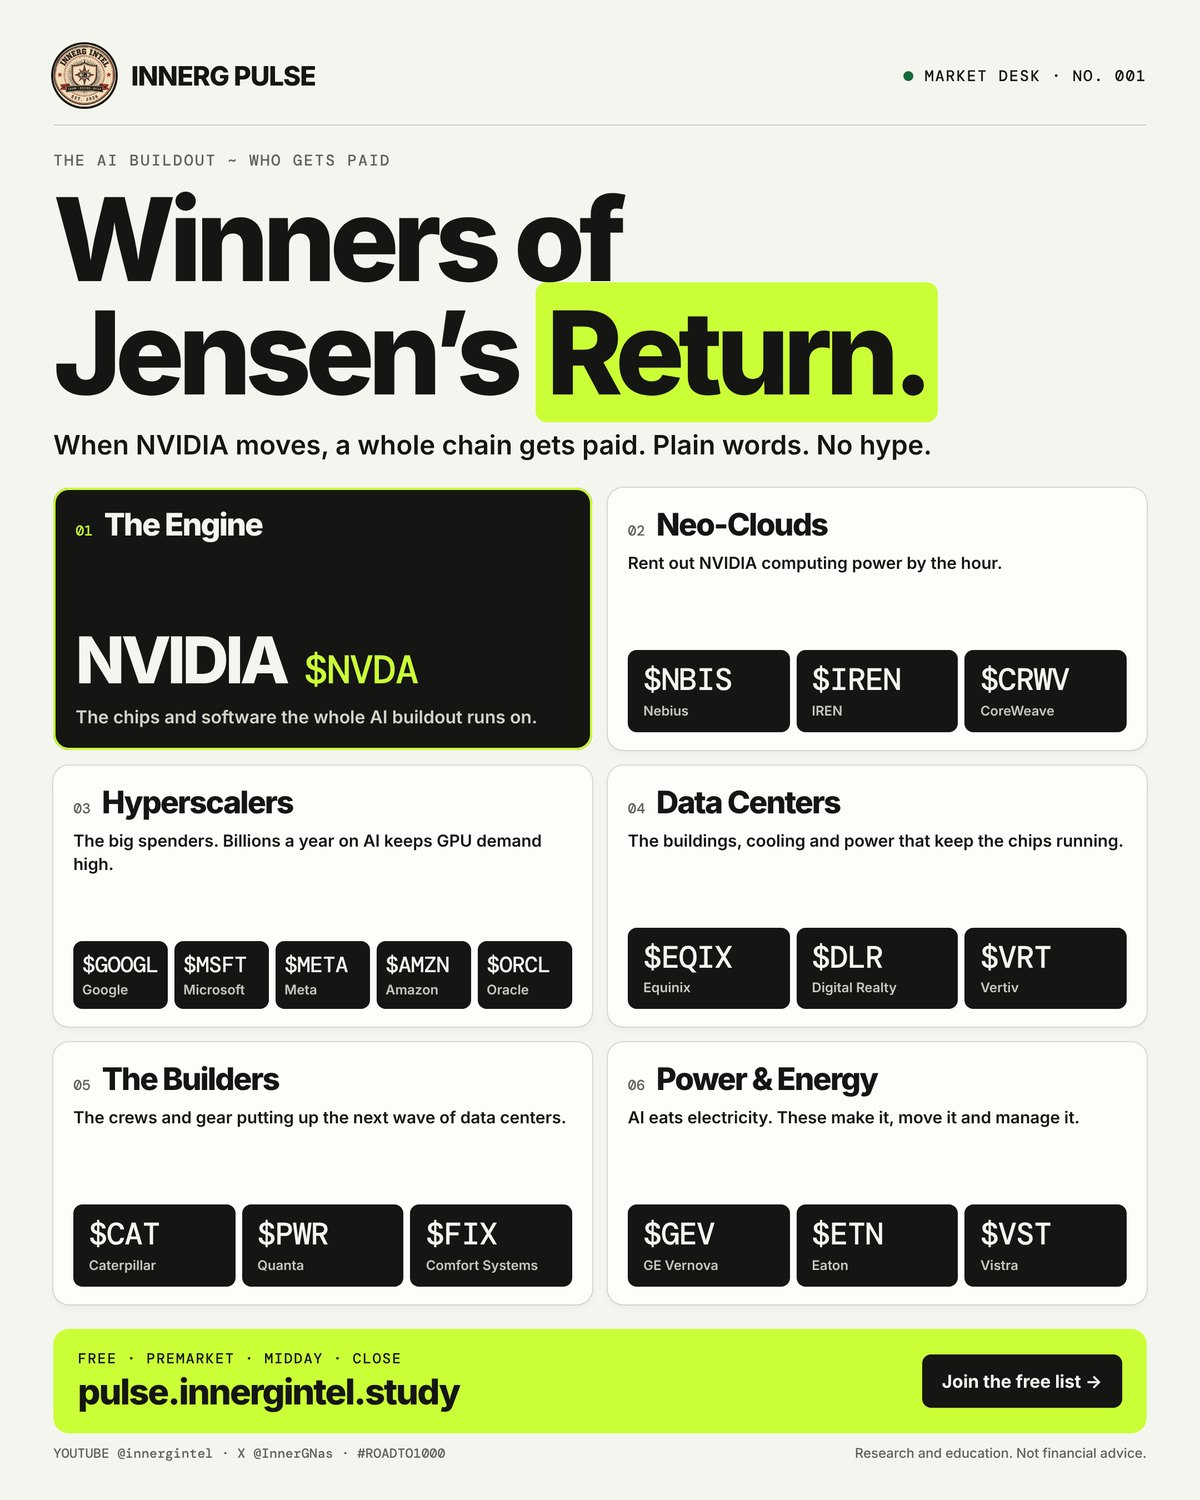
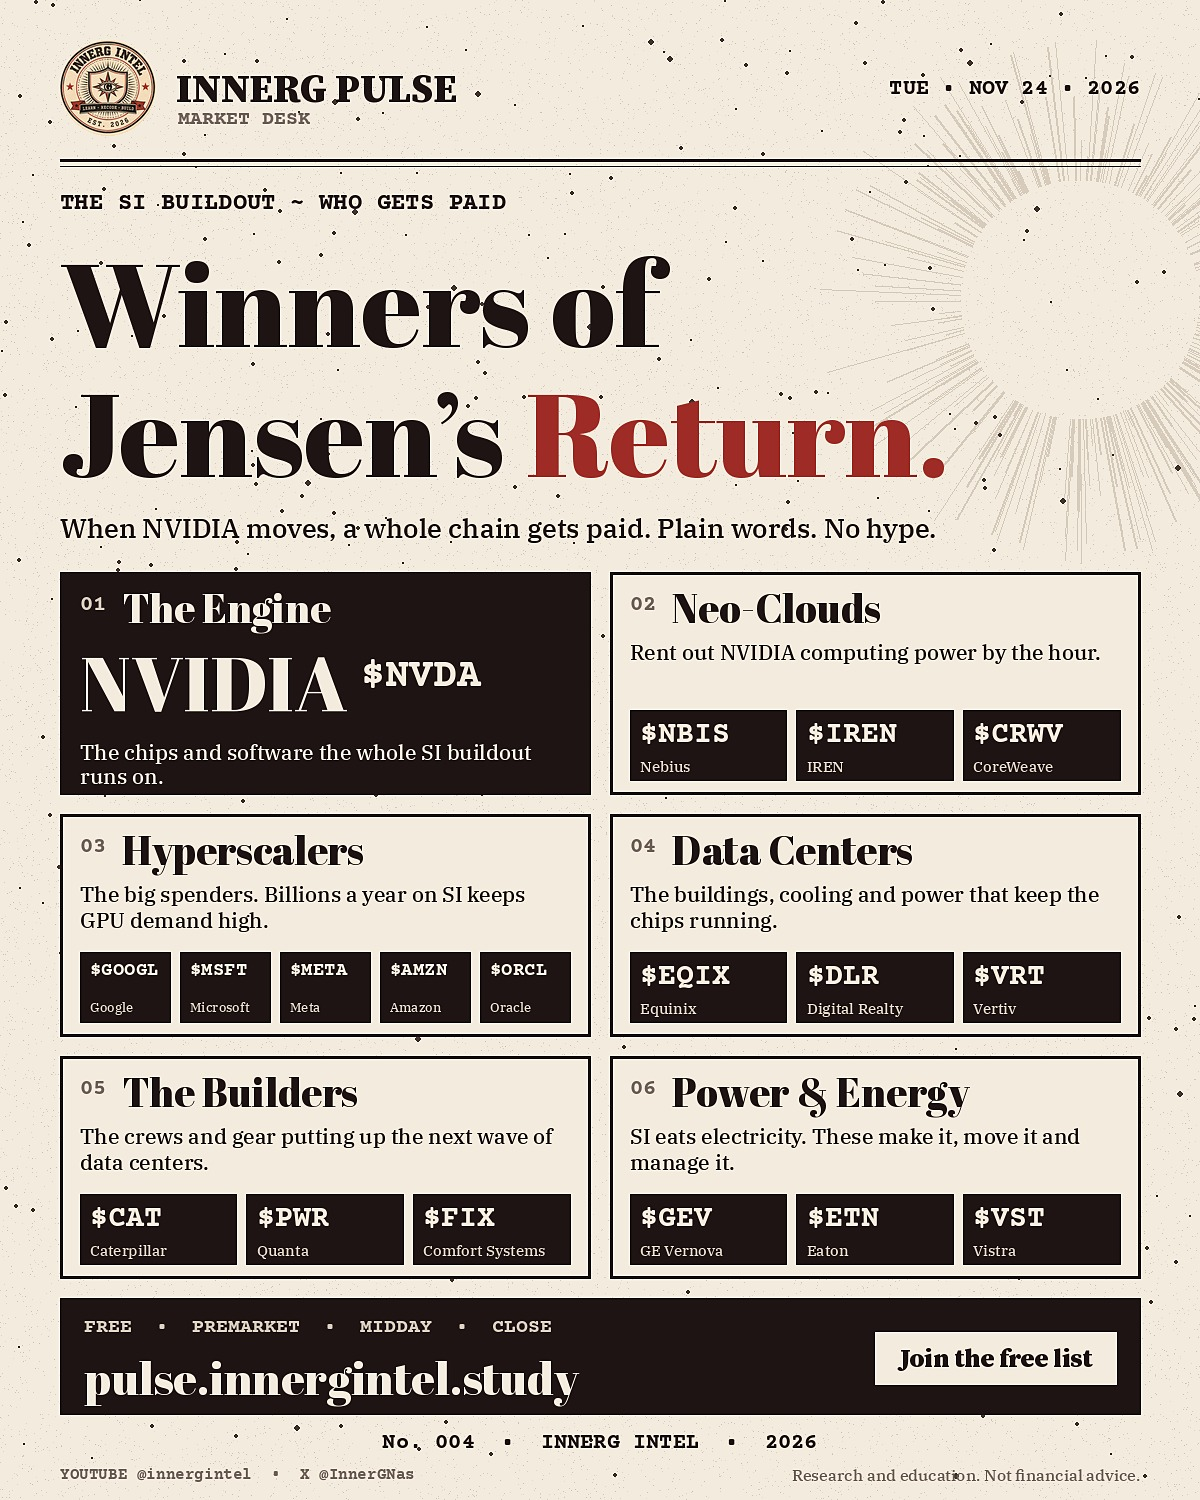
Add the Style A Jensen's Return cover back to the issue page
Replace the Market Desk graphics with InnerG Studio's Style A set.
Restore the cover image and the 1080x1350 download, and point the
share image at the new Style A OG file.

diff --git a/issues/2026-11-24-jensens-return/index.html b/issues/2026-11-24-jensens-return/index.html
@@ -9,12 +9,12 @@
   <meta property="og:title" content="winners of jensen's return ~ INNERG PULSE" />
   <meta property="og:description" content="when nvidia moves, six layers get paid. the map, in plain words." />
   <meta property="og:type" content="article" />
-  <meta property="og:image" content="https://pulse.innergintel.study/assets/og-pulse-styleA.jpg" />
+  <meta property="og:image" content="https://pulse.innergintel.study/issues/2026-11-24-jensens-return/jensens-return-og.jpg" />
   <meta property="og:image:width" content="1200" />
   <meta property="og:image:height" content="630" />
   <meta property="og:url" content="https://pulse.innergintel.study/issues/2026-11-24-jensens-return/" />
   <meta name="twitter:card" content="summary_large_image" />
-  <meta name="twitter:image" content="https://pulse.innergintel.study/assets/og-pulse-styleA.jpg" />
+  <meta name="twitter:image" content="https://pulse.innergintel.study/issues/2026-11-24-jensens-return/jensens-return-og.jpg" />
   <link rel="canonical" href="https://pulse.innergintel.study/issues/2026-11-24-jensens-return/" />
   <link rel="preconnect" href="https://fonts.googleapis.com" />
   <link rel="preconnect" href="https://fonts.gstatic.com" crossorigin />
@@ -33,6 +33,9 @@
 
   <main class="issue">
     <p class="issue-kicker">Market Desk <span class="issue-date">Tuesday, Nov 24, 2026</span></p>
+    <figure class="issue-cover">
+      <img src="jensens-return-cover.jpg" width="1200" height="1500" alt="Winners of Jensen's Return: a map of six groups of companies tied to the SI buildout. The engine: NVIDIA ($NVDA). Neo-clouds: $NBIS, $IREN, $CRWV. Hyperscalers: $GOOGL, $MSFT, $META, $AMZN, $ORCL. Data centers: $EQIX, $DLR, $VRT. Builders: $CAT, $PWR, $FIX. Power and energy: $GEV, $ETN, $VST." />
+    </figure>
     <h1>winners of jensen's <mark>return.</mark></h1>
     <p class="lede">when nvidia moves, it isn't just one stock. a whole chain gets paid.</p>
     <p>here's the map, in plain words:</p>
@@ -50,6 +53,7 @@
       <a class="cta" href="https://pulse.innergintel.study/#signup-panel">Join the free list<span class="arr" aria-hidden="true"></span></a>
     </div>
     <p class="more"><a href="https://nasirr.innergintel.study/watchlist/">open the full market desk<span class="arr" aria-hidden="true"></span></a></p>
+    <p class="more"><a href="jensens-return-1080x1350.jpg" download>download the graphic (1080×1350)</a></p>
     <p class="note">research and education. not financial advice.</p>
     <p class="signoff">Learn the system. Recode the mind. Build the future.<cite>~ G, InnerG Intel</cite></p>
     <p class="back"><a href="https://pulse.innergintel.study/">Back to INNERG PULSE</a></p>
